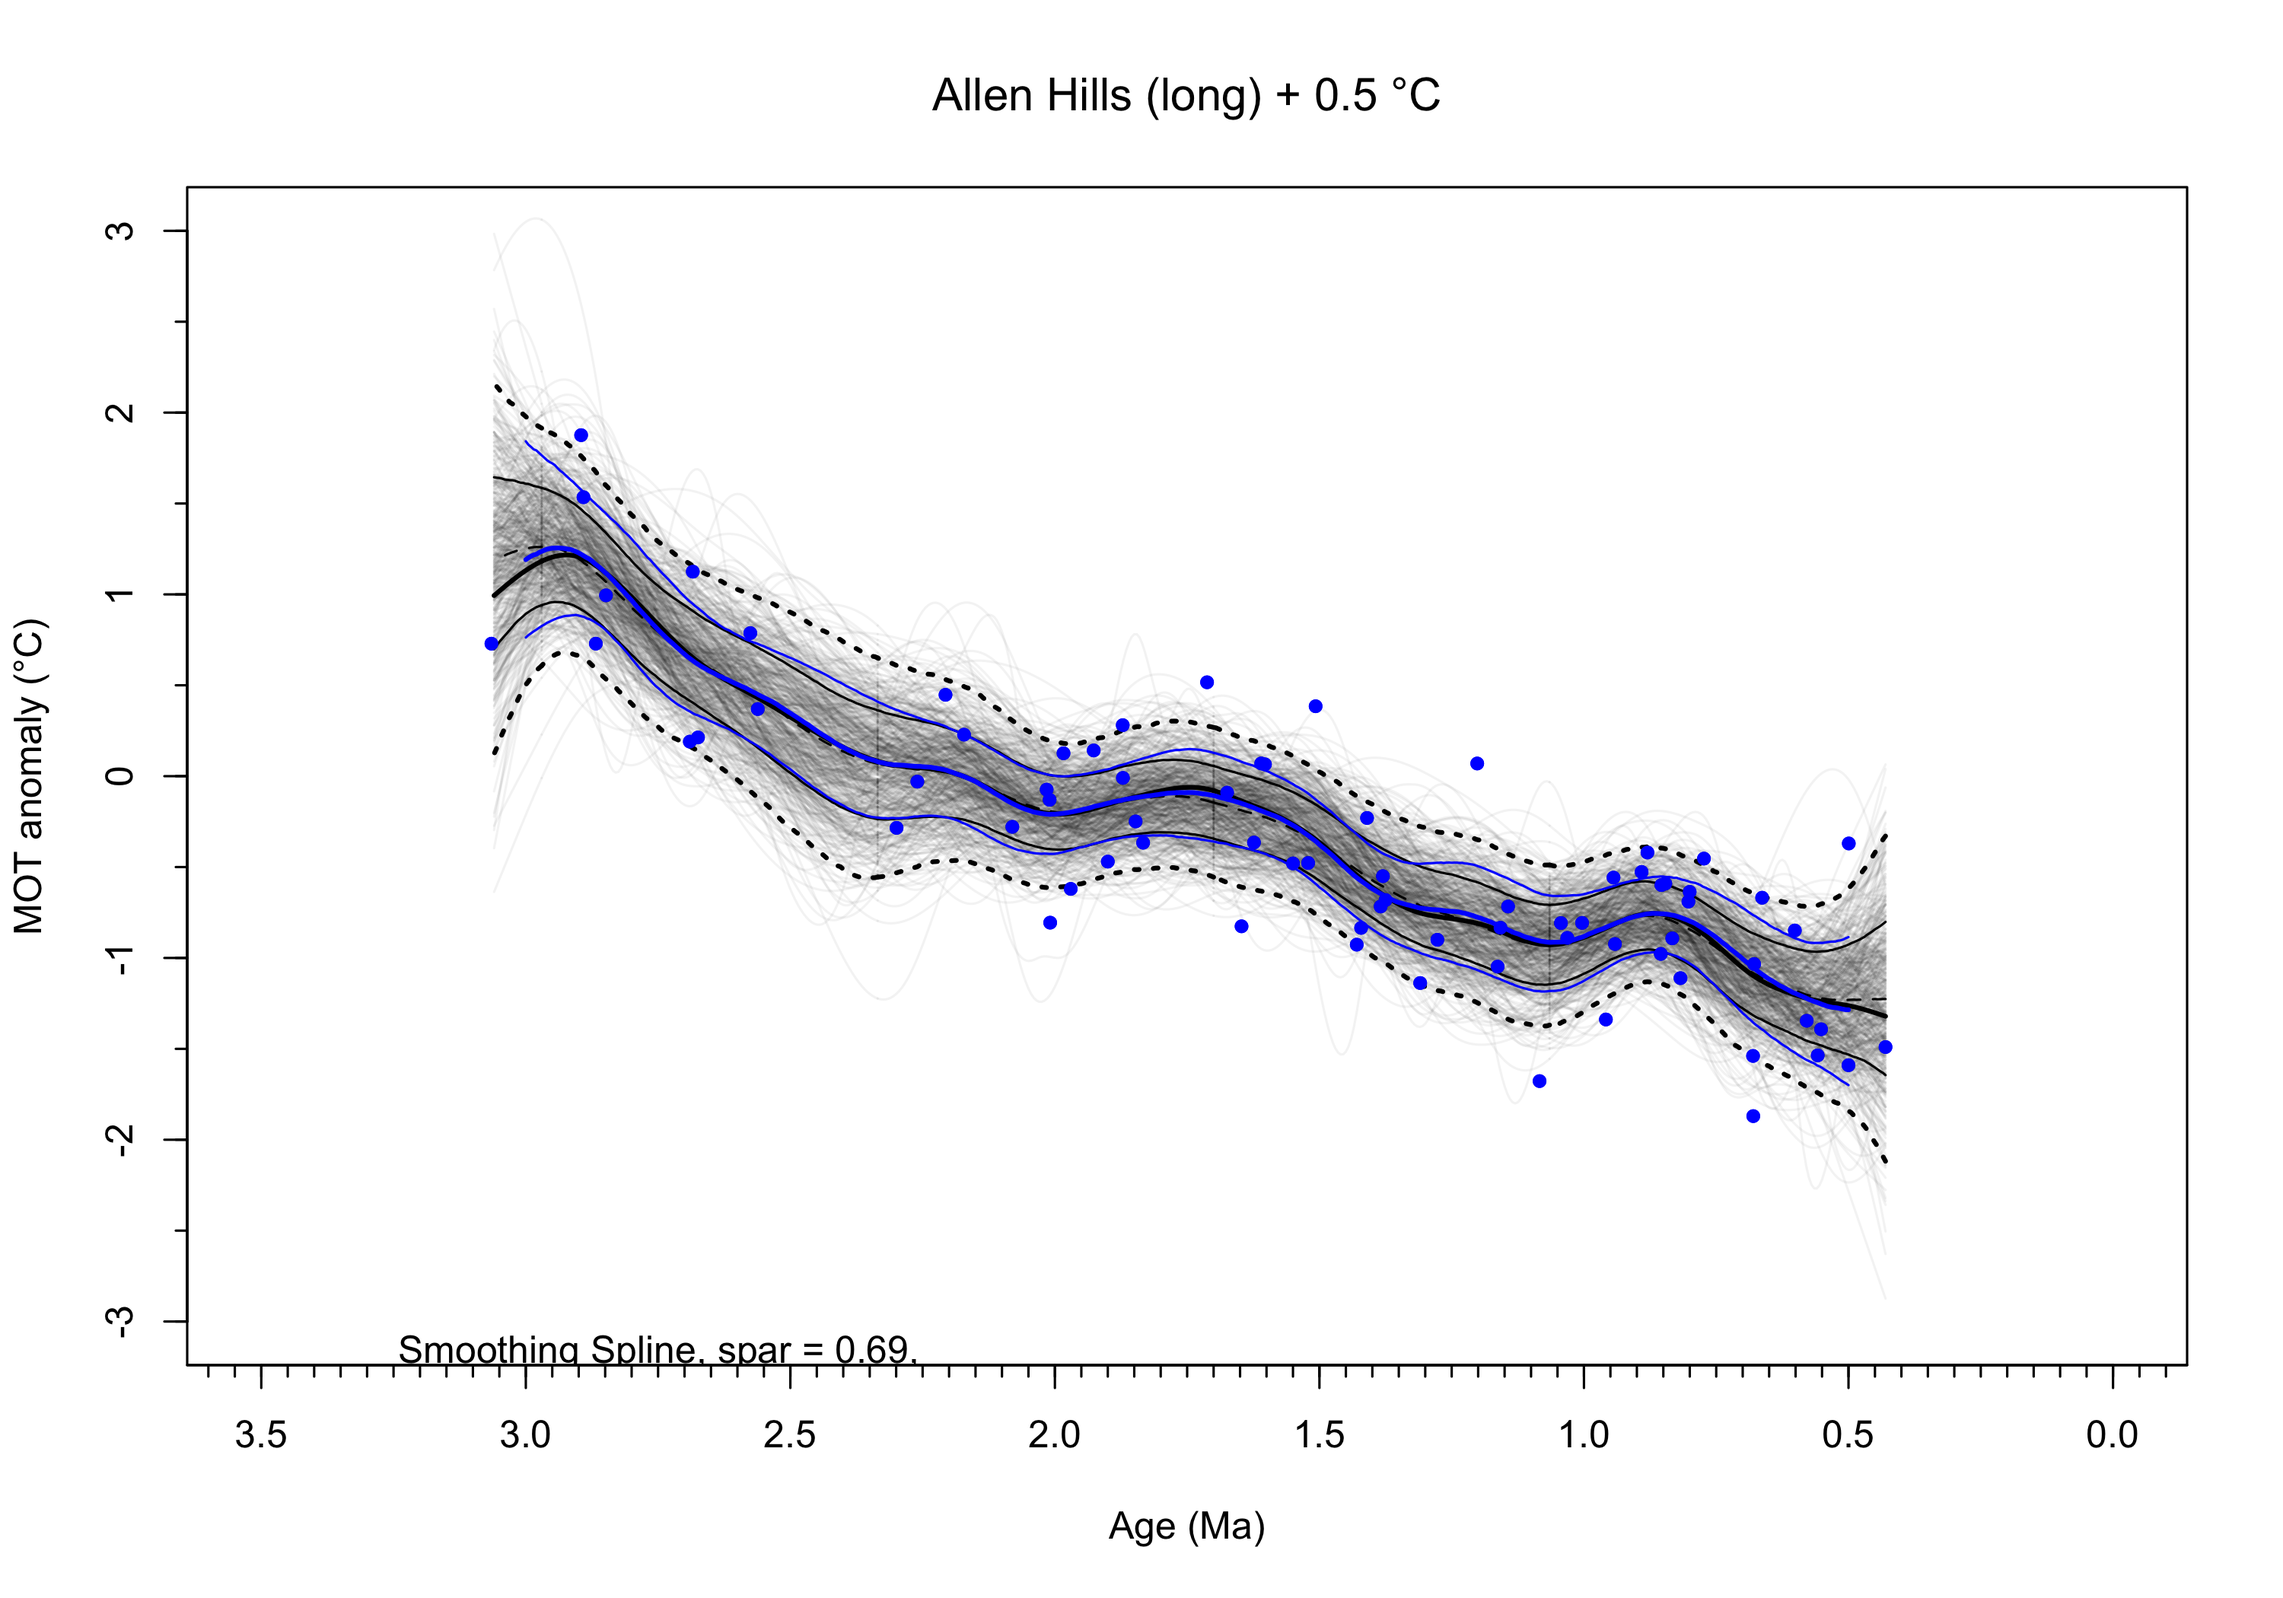
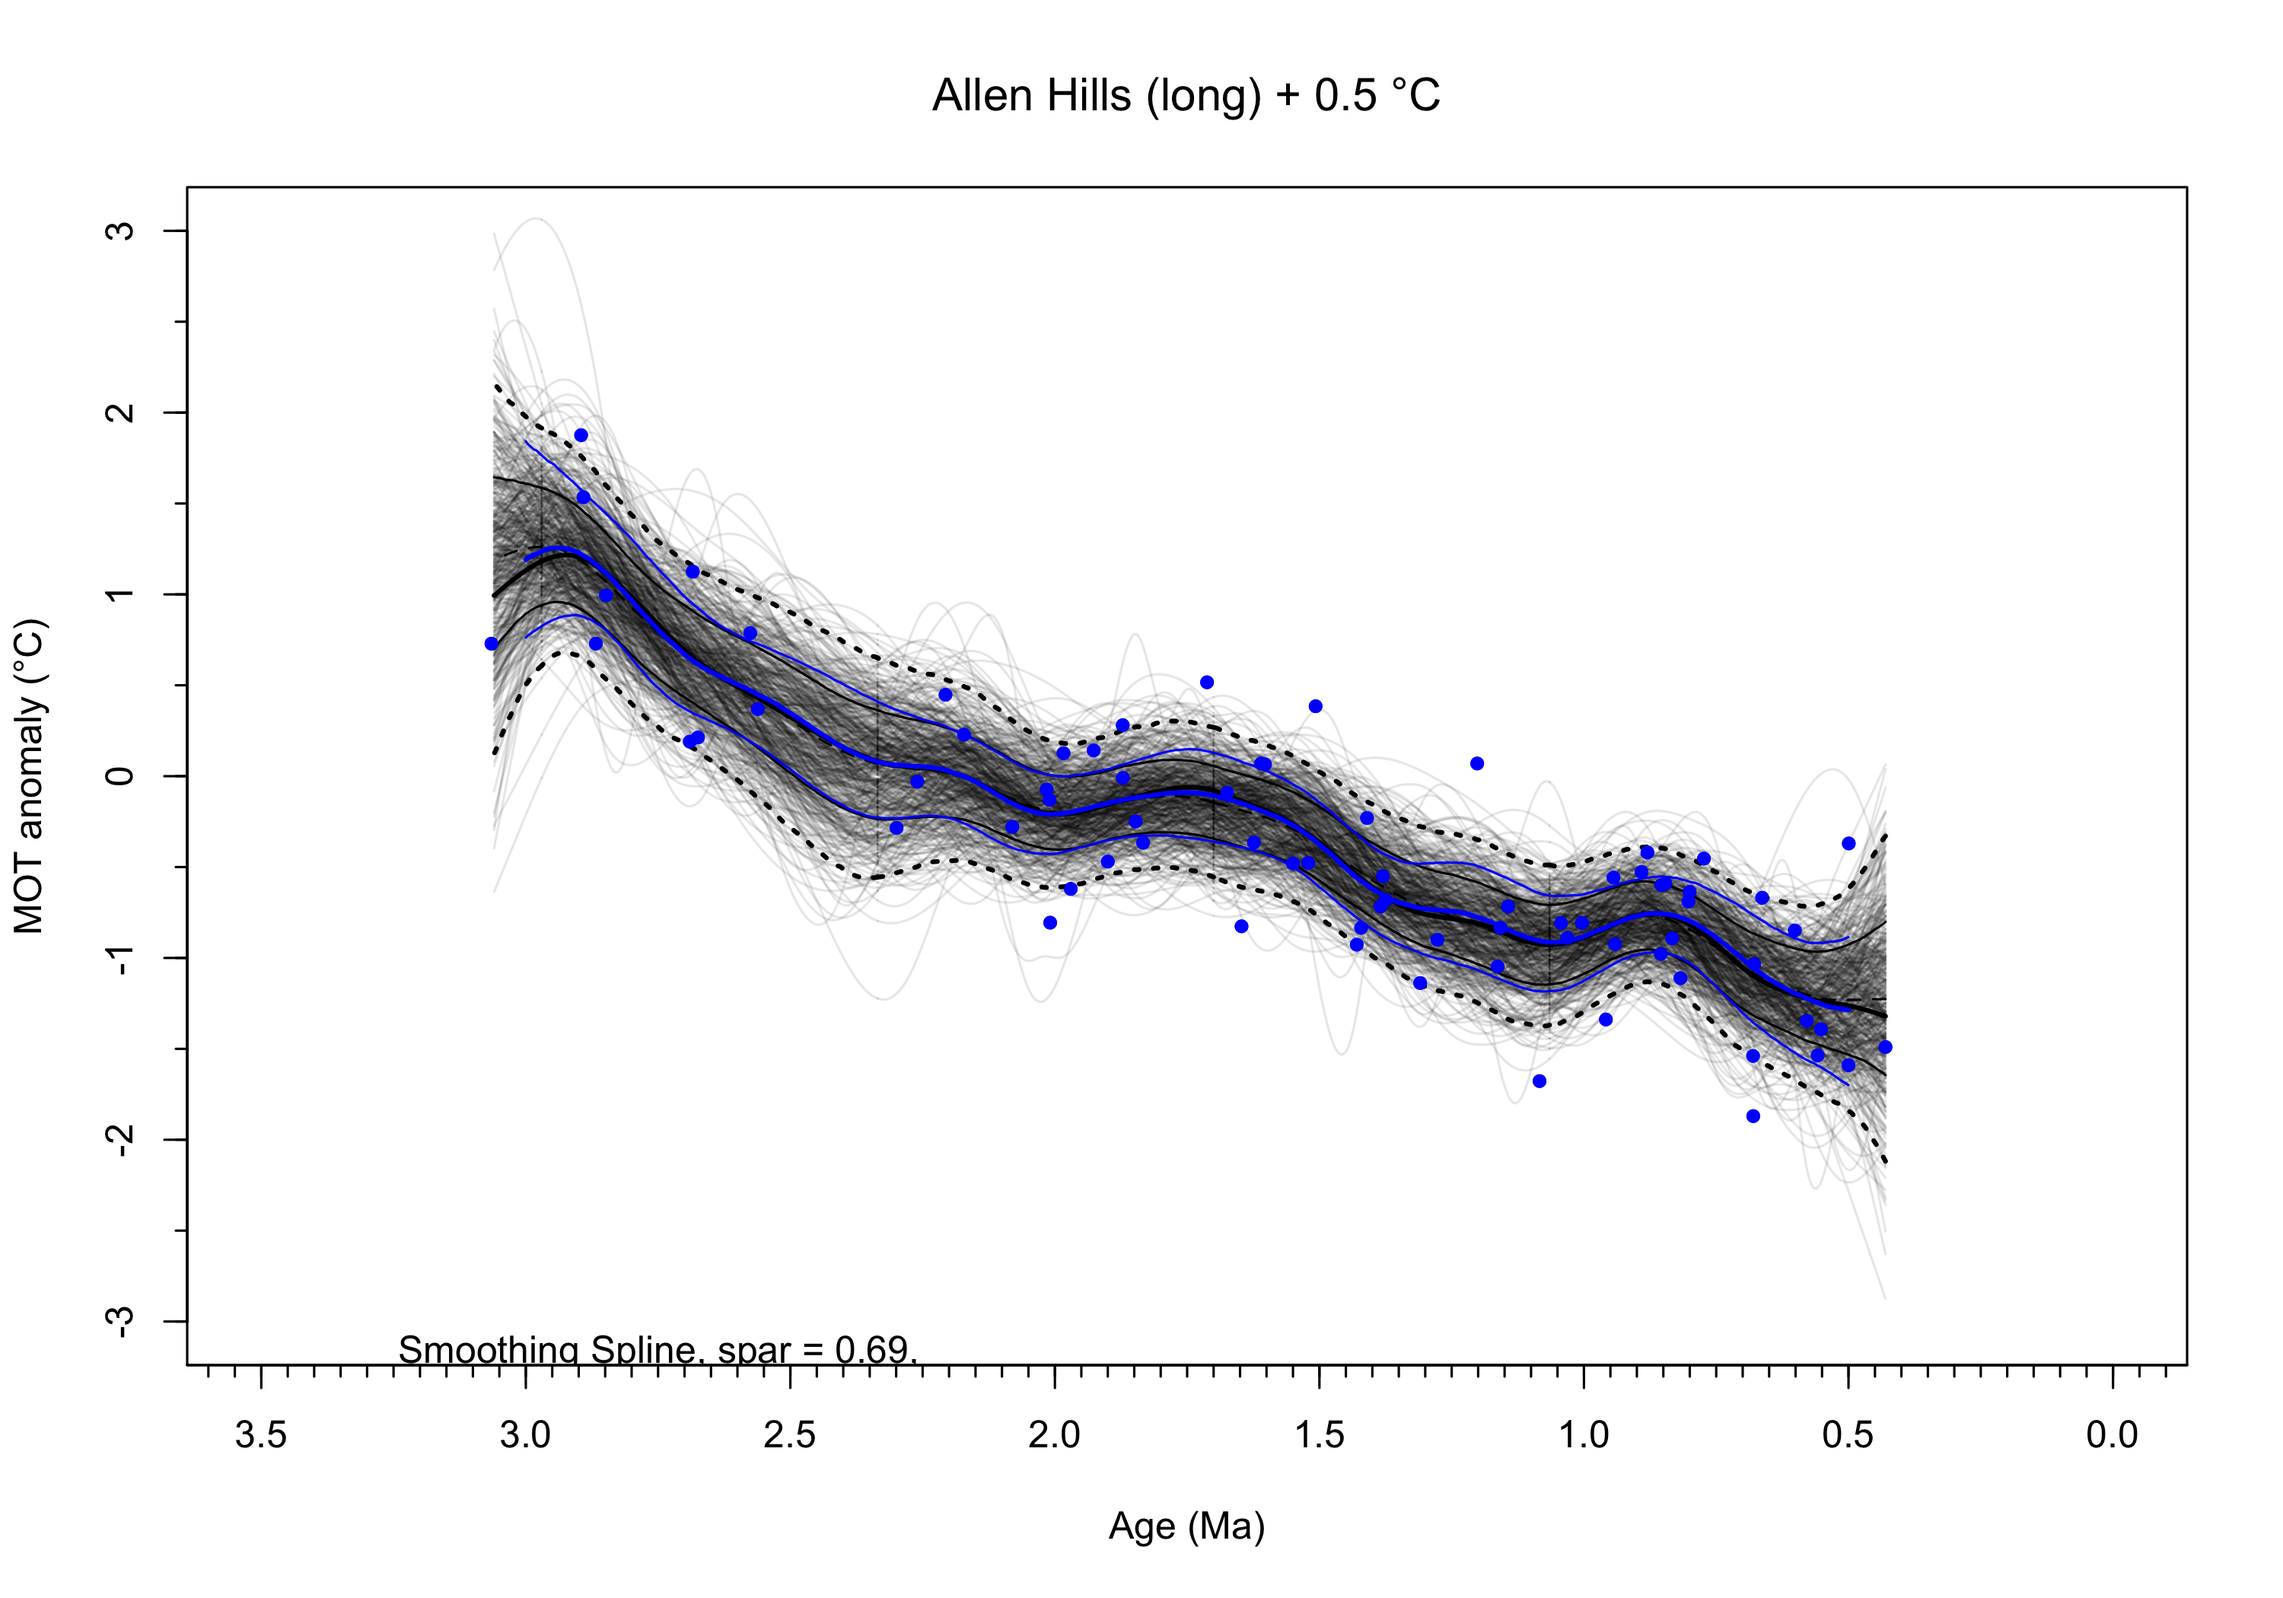
README.md

Changed region(s): [[0.217, 0.2476, 0.837, 0.7119]]

diff --git a/README.md b/README.md
@@ -265,7 +265,8 @@ tss_opt <- as.numeric(rep(0, npts))
 rsq_opt <- as.numeric(rep(0, npts))
 
 for (k in 1:npts) {
-  curve_01 <- smooth.spline(AH_long$AgeMa, AH_long$MOT_anomaly, w = ones, spar = spar_opt[k])
+  curve_01 <- smooth.spline(AH_long$AgeMa, AH_long$MOT_anomaly, w = ones, 
+                  spar = spar_opt[k])
   df_opt[k] <- curve_01$df; lambda_opt[k] <- curve_01$lambda
   
   y_pred <- predict(curve_01, AH_long_spline_paper$AgeMa, deriv = 0)$y
@@ -440,7 +441,7 @@ for (i in 1:nreps) {
   if (length(x_boot) == length(fit_boot$y)) {
     y_pred <- predict(fit_boot, x_targ, deriv = 0)$y
     if (i < 500) {
-      lines(x_targ, y_pred, col=adjustcolor(model_colors[j], alpha = 0.05))
+      lines(x_targ, y_pred, col=adjustcolor(model_colors[j], alpha = 0.1))
       # points(AH_long$AgeMa, y_pred, pch = 16, cex = 0.5, col = "red")
     }
     k <- k + 1
